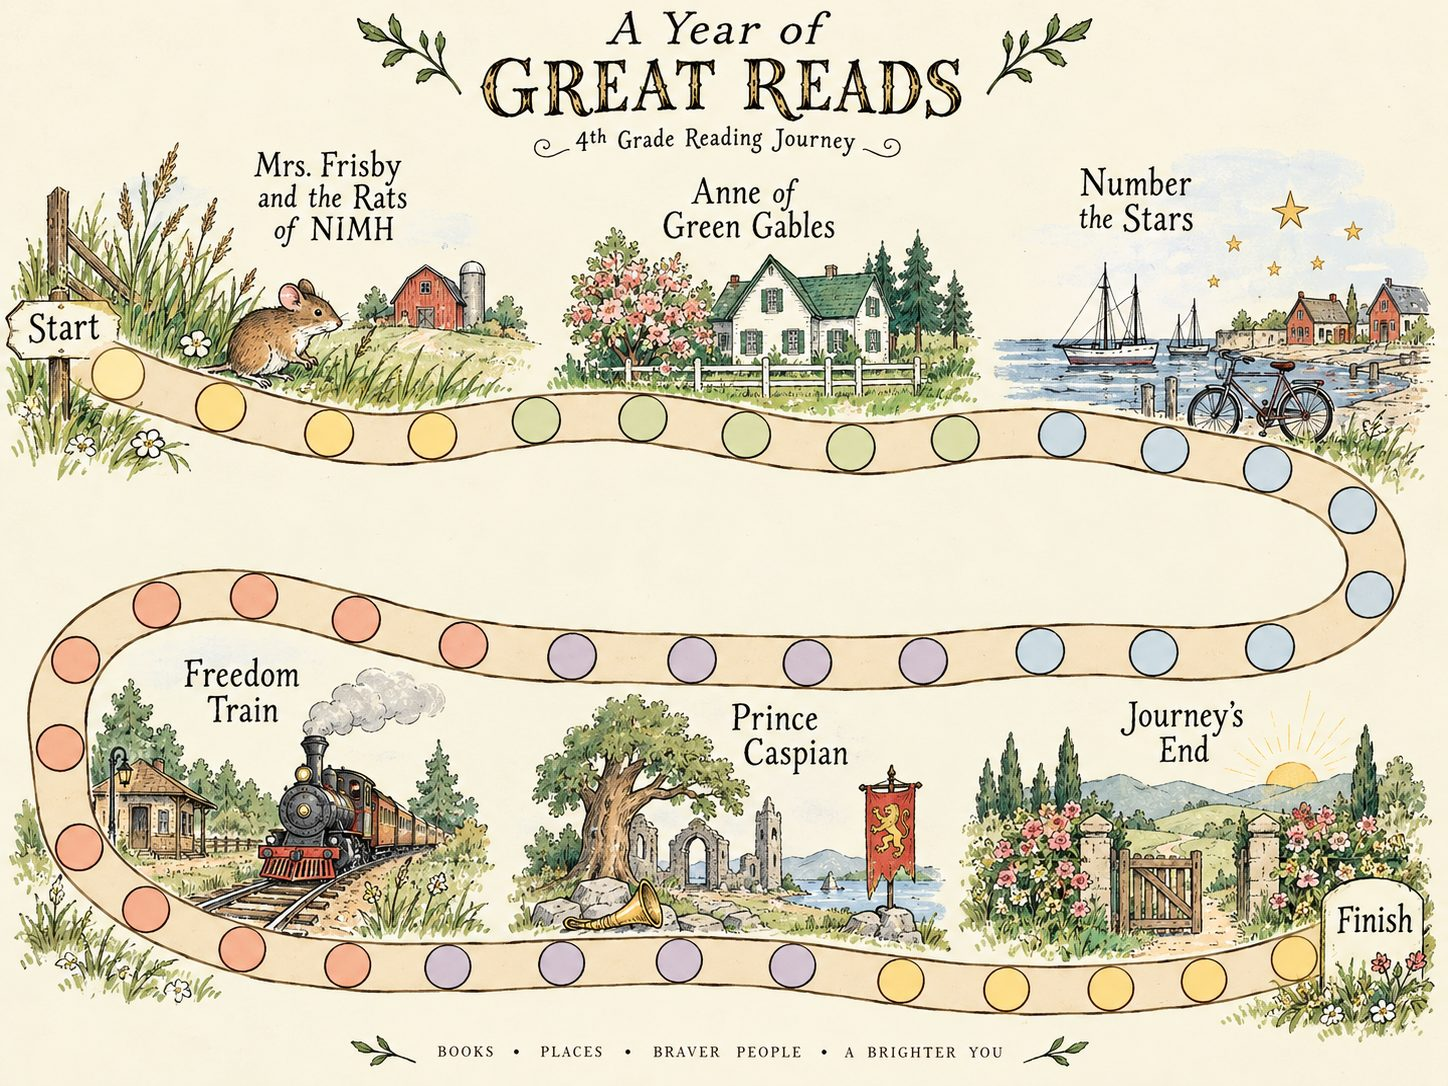
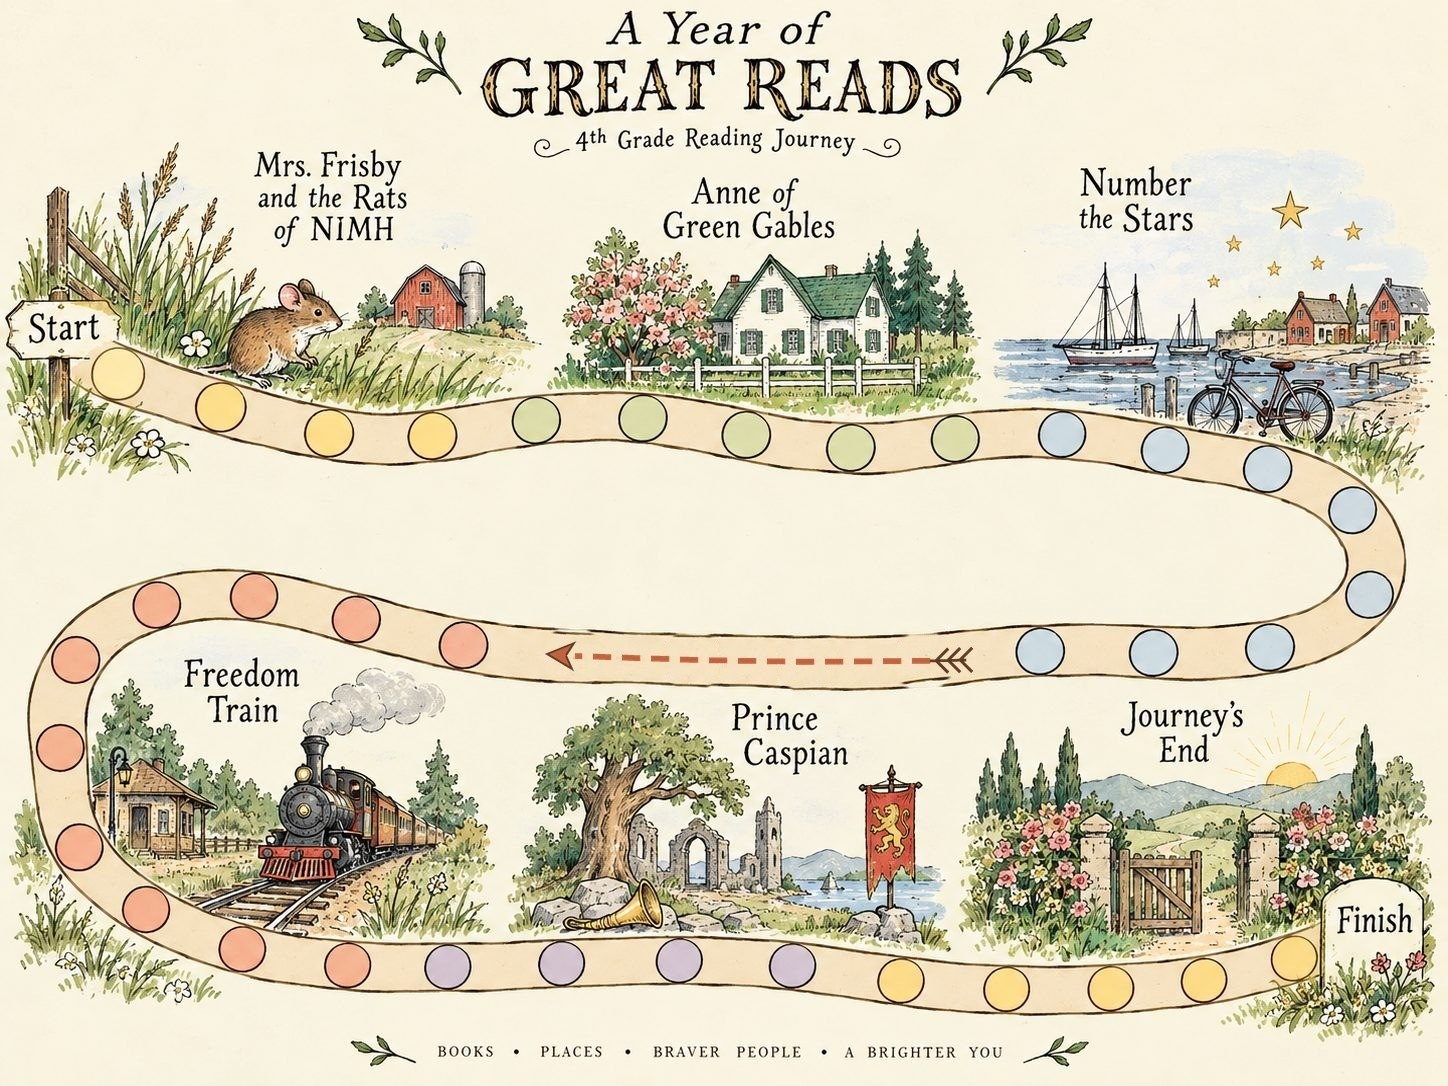
Year board: the four lavender spaces past Prince Caspian's tree are painted out and replaced by an arrow; Freedom Train starts on the first salmon space (36 spaces now; FT 18-27, PC 28-31, Journey's End 32-36). Replaces yesterday's repaint fix.
Claude-Session: https://claude.ai/code/session_0168MRF8XdnDPJHyax3pUAaH

Changed region(s): [[0.5283, 0.5773, 0.6837, 0.6381], [0.3729, 0.5773, 0.4972, 0.6381]]

diff --git a/sparkle.js b/sparkle.js
@@ -852,7 +852,7 @@ var LANDMARK = {
    only lights up what the painting already shows. The coordinates
    were measured off the file (connected-component centroids), not
    eyeballed, so a repaint means re-measuring, not nudging.
-   Forty spaces, thirty-two weeks: a week claims its space by
+   Thirty-six spaces, thirty-two weeks: a week claims its space by
    proportion, which keeps Start at week 1 and Finish at week 32
    without leaving gaps in the middle.                            */
 var BOARD_W = 1448, BOARD_H = 1086, BOARD_R = 23;
@@ -897,10 +897,9 @@ var BOARD_SPACES = [
   [1270,647,'#4A6E8F'],
   [1153,652,'#4A6E8F'],
   [1040,651,'#4A6E8F'],
-  [923,661,'#C0623F',1],   /* 18–21: painted lavender on the artwork, but they open */
-  [807,662,'#C0623F',1],   /* Freedom Train's middle sweep, so the board repaints   */
-  [692,660,'#C0623F',1],   /* them salmon (the 4th field)                          */
-  [572,656,'#C0623F',1],
+  /* the four spaces that ran past Prince Caspian's picture were painted
+     out of the artwork and replaced by an arrow: the road from Number
+     the Stars goes straight on to Freedom Train's salmon spaces */
   [463,645,'#C0623F'],
   [356,619,'#C0623F'],
   [254,596,'#C0623F'],
@@ -924,25 +923,25 @@ var BOARD_SPACES = [
 var BOARD_N = BOARD_SPACES.length;
 /* ── where the owl stands ───────────────────────────────────────
    One step per LESSON DAY, not per week: 32 weeks x 4 lessons = 128
-   days across 40 painted spaces, so the owl moves roughly one space
+   days across 36 painted spaces, so the owl moves roughly one space
    every three lessons and the board lasts the whole year.
 
    The spaces are not divided evenly, because the artist placed the
    six vignettes for composition rather than in curriculum order. Each
    book is anchored to the stretch of path that actually runs past its
    own picture, so a student reading Anne stands under the green
-   gables for all eight of those weeks. Freedom Train gets the long
-   middle sweep and the left-hand loop, which suits a book about a
-   journey; Prince Caspian gets the four spaces beneath its own tree.
+   gables for all eight of those weeks. Freedom Train gets the
+   left-hand loop, which suits a book about a journey (the road
+   arrows straight past Prince Caspian's tree to get there); Prince Caspian gets the four spaces beneath its own tree.
    Change the artwork and these anchors have to be re-measured with
    it — they describe the painting, not the curriculum. */
 var BOARD_LEGS = [
   { id:'frisby', weeks:[1,  6], spaces:[ 1,  4] },   /* Frisby + the wk-6 workshop */
   { id:'anne',   weeks:[7, 14], spaces:[ 5,  9] },
   { id:'nts',    weeks:[15,19], spaces:[10, 17] },   /* incl. the wk-15 bridge */
-  { id:'ft',     weeks:[20,25], spaces:[18, 31] },
-  { id:'pc',     weeks:[26,30], spaces:[32, 35] },
-  { id:'synth',  weeks:[31,32], spaces:[36, 40] }
+  { id:'ft',     weeks:[20,25], spaces:[18, 27] },
+  { id:'pc',     weeks:[26,30], spaces:[28, 31] },
+  { id:'synth',  weeks:[31,32], spaces:[32, 36] }
 ];
 function legOfWeek(w) {
   for (var i = 0; i < BOARD_LEGS.length; i++) {
@@ -953,7 +952,7 @@ function legOfWeek(w) {
 /* the fluency page is not a numbered lesson day; it sits with day 4 */
 function dayNum(d) { var n = parseInt(d, 10); return (n >= 1 && n <= 4) ? n : 4; }
 
-/* lesson (week, day) -> space 1..40 */
+/* lesson (week, day) -> space 1..36 */
 function spaceOfLesson(w, d) {
   var leg = legOfWeek(w);
   var days = (leg.weeks[1] - leg.weeks[0] + 1) * 4;
@@ -1196,14 +1195,6 @@ function drawBoardMap(svg) {
          '<use href="#spkBoardImg" filter="url(#spkUnread)"/>' +
          '<rect x="' + v.x + '" y="' + v.y + '" width="' + v.w + '" height="' + v.h +
          '" fill="#FBF3DF" opacity=".40"/></g>';
-  });
-
-  /* spaces the artist painted in another book's colour are repainted to
-     match the book that owns them (BOARD_SPACES 4th field) */
-  BOARD_SPACES.forEach(function (sp) {
-    if (!sp[3]) return;
-    s += '<circle cx="' + sp[0] + '" cy="' + sp[1] + '" r="' + (BOARD_R + 1) + '" fill="#F5B292" ' +
-         'stroke="#7A5A3E" stroke-width="2.2"/>';
   });
 
   /* the student's name, hand-written into the open field the artist
